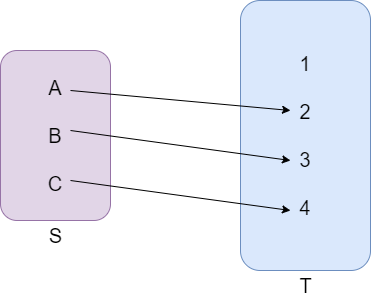
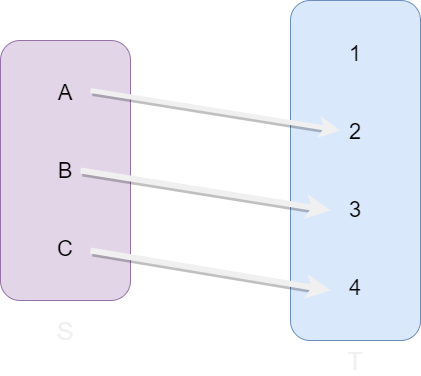
Update the example images

diff --git a/content/post/brief-review-set-theory.md b/content/post/brief-review-set-theory.md
@@ -203,7 +203,7 @@ $$f(5) = 11$$
 
 We can represent this graphically as follows:
 
-![An exaxmple function](/blog/set-theory/ExampleFunction.png)
+![An exaxmple function](/blog/set-theory/ExampleFunction.png#center)
 
 Additionally, there are a few other properties of functions that we must keep in mind:
 
@@ -215,19 +215,19 @@ Additionally, there are a few other properties of functions that we must keep in
 
 A function, f(), is a 1-1 (one-to-one) function if, for any two elements, a and b, of the domain, S, then f(a) != f(b). In simpler terms, different elements of the domain S will map to different elements in the range T.
 
-![A 1-1 function](/blog/set-theory/1-1Function.png)
+![A 1-1 function](/blog/set-theory/1-1Function.png#center)
 
 #### Onto Functions (Surjective)
 
 A function, f(), is an onto function if **every** element of the range, T, has at least one element of the domain, S, which maps to it. In other words, all elements of the range must have an element that maps to them.
 
-![Example of an onto function](/blog/set-theory/ontoFunction.png)
+![Example of an onto function](/blog/set-theory/ontoFunction.png#center)
 
 #### 1-1 AND Onto Function (Bijective)
 
 As one may conjecture at this point, a function is 1-1 and onto if it meets the requirements for both a 1-1 function and an onto function.
 
-![Example of 1-1 and onto](/blog/set-theory/1-1andonto.png)
+![Example of 1-1 and onto](/blog/set-theory/1-1andonto.png#center)
 
 ### Proving Equal Cardinality of Infinite Sets
 
